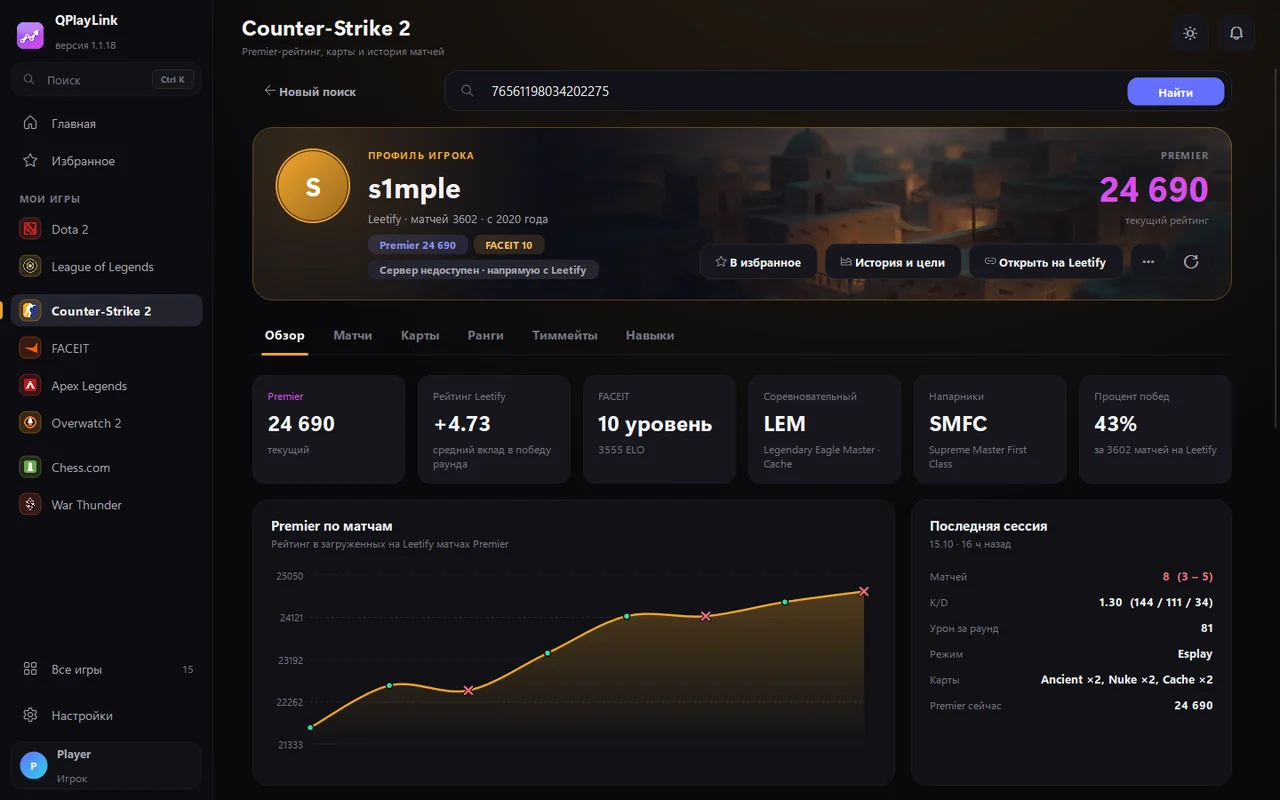
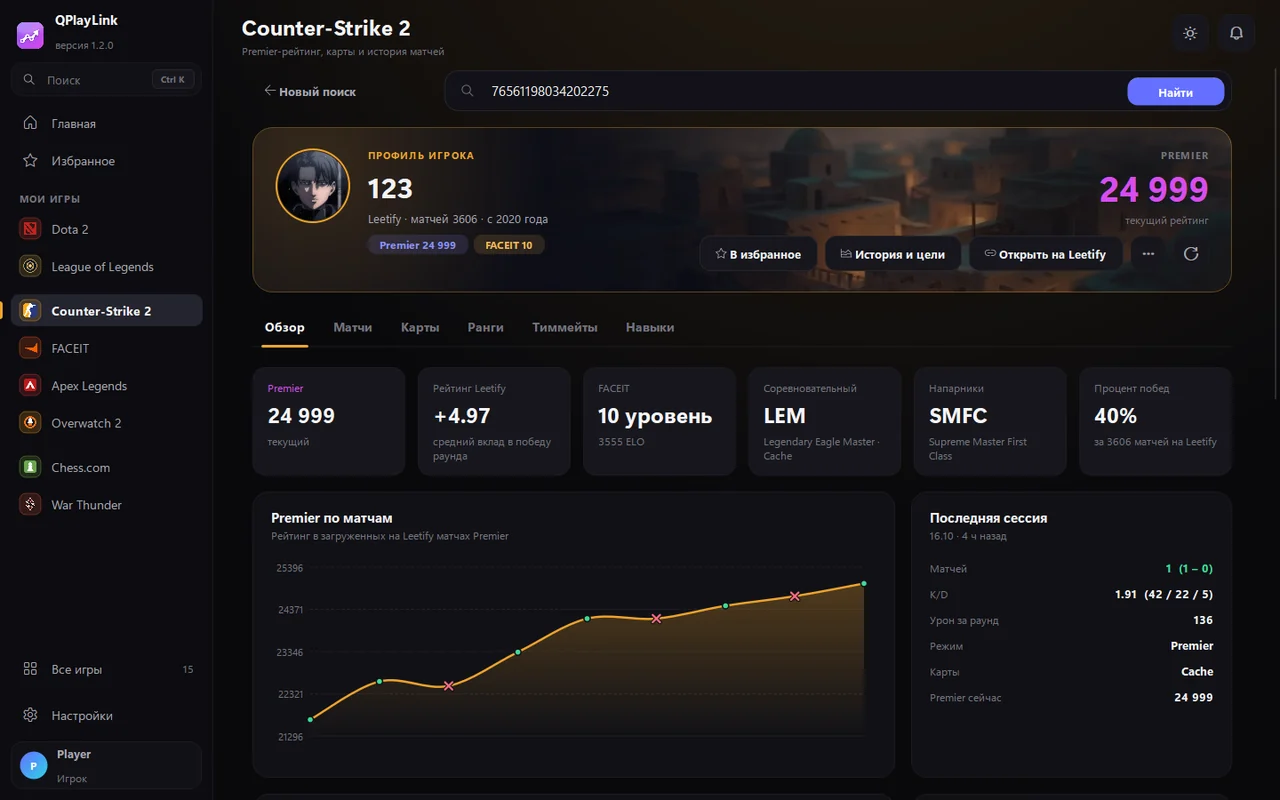
Страница: скриншоты CS2 и разведки лобби FACEIT с сервера 1.2.0

diff --git a/docs/index.html b/docs/index.html
@@ -383,7 +383,7 @@ body.is-mobile .cta .js-download{background:rgba(255,255,255,.05);border-color:v
       <div class="card reveal"><img src="img/new_postgame.webp" alt="Итог после игры" loading="lazy" width="640" height="400"><h4>Итог после игры</h4><p>Карточка с главным за матч. После серии поражений программа мягко предложит сделать перерыв.</p></div>
       <div class="card reveal"><img src="img/new_mates.webp" alt="Тиммейты в Dota 2" loading="lazy" width="640" height="400"><h4>Тиммейты в Dota 2</h4><p>С кем вы чаще играете и с кем лучше выигрываете. Любимых можно отметить звёздочкой.</p></div>
       <div class="card reveal"><img src="img/new_goal.webp" alt="Цель на месяц" loading="lazy" width="640" height="400"><h4>Цель на месяц и итоги</h4><p>Поставьте цель на месяц, а в конце получите итоги: сколько сыграли и что выросло.</p></div>
-      <div class="card reveal"><div class="ico"><svg viewBox="0 0 24 24" fill="none" stroke="currentColor" stroke-width="2.2" stroke-linecap="round" stroke-linejoin="round"><circle cx="11" cy="11" r="7"/><path d="m20 20-3.5-3.5"/><path d="M8 11h6M11 8v6"/></svg></div>
+      <div class="card reveal"><img src="img/new_lobby.webp" alt="Разведка лобби FACEIT" loading="lazy" width="640" height="400">
         <h4>Разведка лобби FACEIT</h4><p>Перед матчем видно уровень, форму и любимые карты всех десяти игроков.</p></div>
       <div class="card reveal"><div class="ico"><img src="icons/tft.png" alt="" style="width:30px;height:30px;border-radius:8px"></div>
         <h4>Teamfight Tactics</h4><p>Ранг, последние игры, места и составы. Пятнадцатая игра в программе.</p></div>
